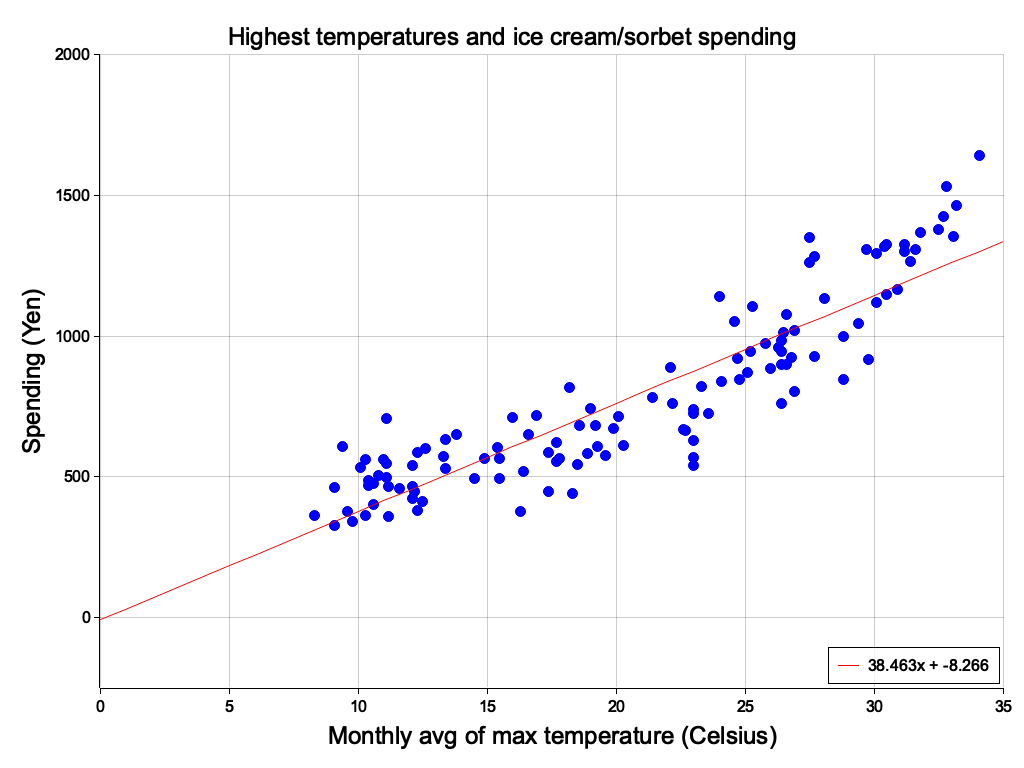
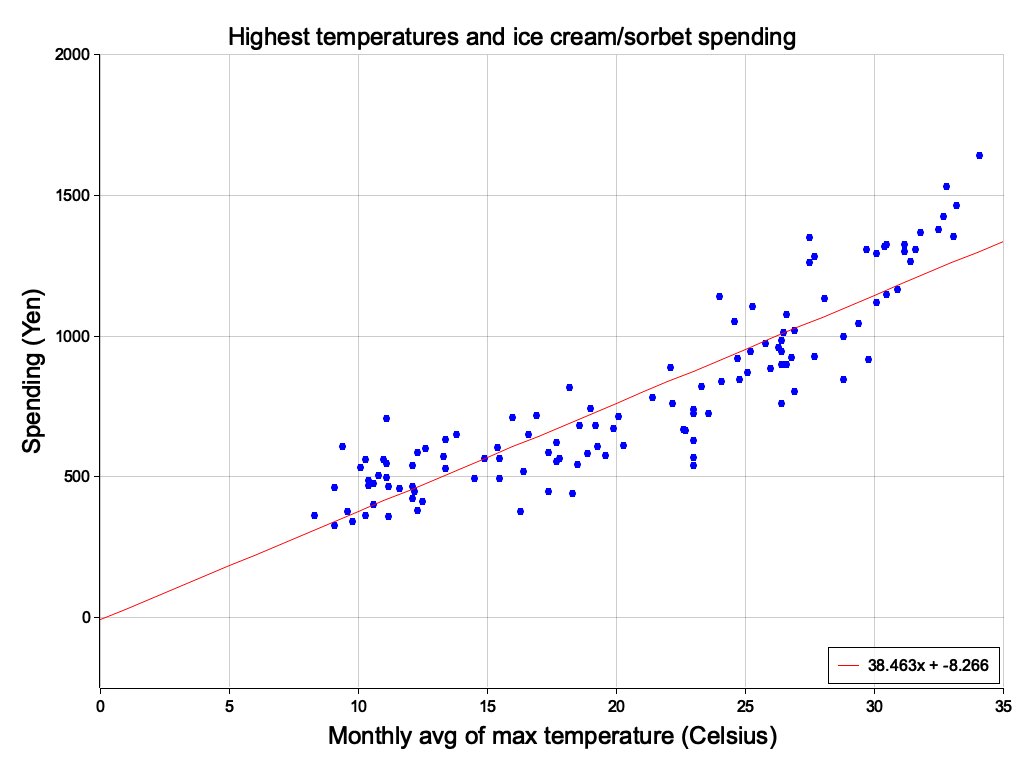
tweak

diff --git a/src/bin/plot_test.rs b/src/bin/plot_test.rs
@@ -1,44 +1,45 @@
 use anyhow::Result;
 use plotters::prelude::*;
-use std::path::Path;
+use std::path::{Path, PathBuf};
 
 const OUTDIR: &str = "plotters-images";
 
-fn main() -> Result<()> {
+pub fn get_output_path() -> PathBuf {
     let arg = std::env::args().next().unwrap();
-    let plot_image_filename =
-        Path::new(&arg).file_name().unwrap().to_string_lossy();
-    let path = format!("{}/{}.png", OUTDIR, plot_image_filename);
-    plot(&path)?;
+    let fname = Path::new(&arg).file_name().unwrap().to_string_lossy();
+    let plot_image_filename = format!("{}.png", fname);
+    PathBuf::from(OUTDIR).join(plot_image_filename)
+}
+
+fn main() -> Result<()> {
+    let path = get_output_path();
+    run(&path)?;
     Ok(())
 }
 
-fn plot(filename: &str) -> Result<()> {
+fn run<P: AsRef<Path>>(path: P) -> Result<()> {
     let icecream_data = std::iter::zip(X, Y)
         .map(|(x, y)| (*x, *y))
         .collect::<Vec<_>>();
 
-    let x_range = 0f32..35f32;
-    let y_range = -250f32..2000f32;
-    let caption = "Highest temperatures and ice cream/sorbet spending";
-    let x_desc = "Monthly avg of max temperature (Celsius)";
-    let y_desc = "Spending (Yen)";
-
     let root =
-        BitMapBackend::new(filename, (1024, 768)).into_drawing_area();
+        BitMapBackend::new(&path, (1024, 768)).into_drawing_area();
     root.fill(&WHITE)?;
     let root = root.margin(20, 20, 20, 20);
 
     let mut chart = ChartBuilder::on(&root)
-        .caption(caption, ("sans-serif", 30).into_font())
+        .caption(
+            "Highest temperatures and ice cream/sorbet spending",
+            ("sans-serif", 30).into_font(),
+        )
         .x_label_area_size(60)
         .y_label_area_size(80)
-        .build_cartesian_2d(x_range, y_range)?;
+        .build_cartesian_2d(0f32..35f32, -250f32..2000f32)?;
 
     chart
         .configure_mesh()
-        .x_desc(x_desc)
-        .y_desc(y_desc)
+        .x_desc("Monthly avg of max temperature (Celsius)")
+        .y_desc("Spending (Yen)")
         .axis_desc_style(("sans-serif", 30).into_font())
         .max_light_lines(0)
         .x_labels(10)
@@ -59,29 +60,30 @@ fn plot(filename: &str) -> Result<()> {
 }
 
 const X: &[f32] = &[
-    9.1, 11.2, 12.3, 18.9, 22.2, 26., 30.9, 31.2, 28.8, 23., 18.3, 11.1,
-    8.3, 9.1, 12.5, 18.5, 23.6, 24.8, 30.1, 33.1, 29.8, 23., 16.3, 11.2,
-    9.6, 10.3, 16.4, 19.2, 24.1, 26.5, 31.4, 33.2, 28.8, 23., 17.4, 12.1,
-    10.6, 9.8, 14.5, 19.6, 24.7, 26.9, 30.5, 31.2, 26.9, 23., 17.4, 11.,
-    10.4, 10.4, 15.5, 19.3, 26.4, 26.4, 30.1, 30.5, 26.4, 22.7, 17.8,
-    13.4, 10.6, 12.2, 14.9, 20.3, 25.2, 26.3, 29.7, 31.6, 27.7, 22.6,
-    15.5, 13.8, 10.8, 12.1, 13.4, 19.9, 25.1, 26.4, 31.8, 30.4, 26.8,
-    20.1, 16.6, 11.1, 9.4, 10.1, 16.9, 22.1, 24.6, 26.6, 32.7, 32.5,
-    26.6, 23., 17.7, 12.1, 10.3, 11.6, 15.4, 19., 25.3, 25.8, 27.5, 32.8,
-    29.4, 23.3, 17.7, 12.6, 11.1, 13.3, 16., 18.2, 24., 27.5, 27.7, 34.1,
-    28.1, 21.4, 18.6, 12.3,
+    9.1, 11.2, 12.3, 18.9, 22.2, 26., 30.9, 31.2, 28.8, 23., 18.3,
+    11.1, 8.3, 9.1, 12.5, 18.5, 23.6, 24.8, 30.1, 33.1, 29.8, 23.,
+    16.3, 11.2, 9.6, 10.3, 16.4, 19.2, 24.1, 26.5, 31.4, 33.2, 28.8,
+    23., 17.4, 12.1, 10.6, 9.8, 14.5, 19.6, 24.7, 26.9, 30.5, 31.2,
+    26.9, 23., 17.4, 11., 10.4, 10.4, 15.5, 19.3, 26.4, 26.4, 30.1,
+    30.5, 26.4, 22.7, 17.8, 13.4, 10.6, 12.2, 14.9, 20.3, 25.2, 26.3,
+    29.7, 31.6, 27.7, 22.6, 15.5, 13.8, 10.8, 12.1, 13.4, 19.9, 25.1,
+    26.4, 31.8, 30.4, 26.8, 20.1, 16.6, 11.1, 9.4, 10.1, 16.9, 22.1,
+    24.6, 26.6, 32.7, 32.5, 26.6, 23., 17.7, 12.1, 10.3, 11.6, 15.4,
+    19., 25.3, 25.8, 27.5, 32.8, 29.4, 23.3, 17.7, 12.6, 11.1, 13.3,
+    16., 18.2, 24., 27.5, 27.7, 34.1, 28.1, 21.4, 18.6, 12.3,
 ];
 
 const Y: &[f32] = &[
     463., 360., 380., 584., 763., 886., 1168., 1325., 847., 542., 441.,
     499., 363., 327., 414., 545., 726., 847., 1122., 1355., 916., 571.,
-    377., 465., 377., 362., 518., 683., 838., 1012., 1267., 1464., 1000.,
-    629., 448., 466., 404., 343., 493., 575., 921., 1019., 1149., 1303.,
-    805., 739., 587., 561., 486., 470., 564., 609., 899., 946., 1295.,
-    1325., 760., 667., 564., 633., 478., 450., 567., 611., 947., 962.,
-    1309., 1307., 930., 668., 496., 650., 506., 423., 531., 672., 871.,
-    986., 1368., 1319., 924., 716., 651., 708., 609., 535., 717., 890.,
-    1054., 1077., 1425., 1378., 900., 725., 554., 542., 561., 459., 604.,
-    745., 1105., 973., 1263., 1533., 1044., 821., 621., 601., 549., 572.,
-    711., 819., 1141., 1350., 1285., 1643., 1133., 784., 682., 587.,
+    377., 465., 377., 362., 518., 683., 838., 1012., 1267., 1464.,
+    1000., 629., 448., 466., 404., 343., 493., 575., 921., 1019.,
+    1149., 1303., 805., 739., 587., 561., 486., 470., 564., 609., 899.,
+    946., 1295., 1325., 760., 667., 564., 633., 478., 450., 567., 611.,
+    947., 962., 1309., 1307., 930., 668., 496., 650., 506., 423., 531.,
+    672., 871., 986., 1368., 1319., 924., 716., 651., 708., 609., 535.,
+    717., 890., 1054., 1077., 1425., 1378., 900., 725., 554., 542.,
+    561., 459., 604., 745., 1105., 973., 1263., 1533., 1044., 821.,
+    621., 601., 549., 572., 711., 819., 1141., 1350., 1285., 1643.,
+    1133., 784., 682., 587.,
 ];

diff --git a/src/regression.rs b/src/regression.rs
@@ -40,7 +40,11 @@ pub struct Polynomial {
 }
 
 impl Polynomial {
-    pub fn polyfit(x: &[f32], y: &[f32], degree: usize) -> Result<Self> {
+    pub fn polyfit(
+        x: &[f32],
+        y: &[f32],
+        degree: usize,
+    ) -> Result<Self> {
         let x = DenseMatrix::from_2d_vec(
             &x.iter()
                 .map(|&x| set_degree(x, degree))
@@ -140,7 +144,8 @@ pub fn plot<P: AsRef<std::path::Path>>(
     series: Vec<(f32, f32)>,
     legend: &str,
 ) -> Result<()> {
-    let root = BitMapBackend::new(&path, (1024, 768)).into_drawing_area();
+    let root =
+        BitMapBackend::new(&path, (1024, 768)).into_drawing_area();
     root.fill(&WHITE)?;
     let root = root.margin(20, 20, 20, 20);
 
@@ -213,15 +218,16 @@ pub mod dataset {
     pub const TEMPERATURES: &[f32] = &[
         9.1, 11.2, 12.3, 18.9, 22.2, 26., 30.9, 31.2, 28.8, 23., 18.3,
         11.1, 8.3, 9.1, 12.5, 18.5, 23.6, 24.8, 30.1, 33.1, 29.8, 23.,
-        16.3, 11.2, 9.6, 10.3, 16.4, 19.2, 24.1, 26.5, 31.4, 33.2, 28.8,
-        23., 17.4, 12.1, 10.6, 9.8, 14.5, 19.6, 24.7, 26.9, 30.5, 31.2,
-        26.9, 23., 17.4, 11., 10.4, 10.4, 15.5, 19.3, 26.4, 26.4, 30.1,
-        30.5, 26.4, 22.7, 17.8, 13.4, 10.6, 12.2, 14.9, 20.3, 25.2, 26.3,
-        29.7, 31.6, 27.7, 22.6, 15.5, 13.8, 10.8, 12.1, 13.4, 19.9, 25.1,
-        26.4, 31.8, 30.4, 26.8, 20.1, 16.6, 11.1, 9.4, 10.1, 16.9, 22.1,
-        24.6, 26.6, 32.7, 32.5, 26.6, 23., 17.7, 12.1, 10.3, 11.6, 15.4,
-        19., 25.3, 25.8, 27.5, 32.8, 29.4, 23.3, 17.7, 12.6, 11.1, 13.3,
-        16., 18.2, 24., 27.5, 27.7, 34.1, 28.1, 21.4, 18.6, 12.3,
+        16.3, 11.2, 9.6, 10.3, 16.4, 19.2, 24.1, 26.5, 31.4, 33.2,
+        28.8, 23., 17.4, 12.1, 10.6, 9.8, 14.5, 19.6, 24.7, 26.9, 30.5,
+        31.2, 26.9, 23., 17.4, 11., 10.4, 10.4, 15.5, 19.3, 26.4, 26.4,
+        30.1, 30.5, 26.4, 22.7, 17.8, 13.4, 10.6, 12.2, 14.9, 20.3,
+        25.2, 26.3, 29.7, 31.6, 27.7, 22.6, 15.5, 13.8, 10.8, 12.1,
+        13.4, 19.9, 25.1, 26.4, 31.8, 30.4, 26.8, 20.1, 16.6, 11.1,
+        9.4, 10.1, 16.9, 22.1, 24.6, 26.6, 32.7, 32.5, 26.6, 23., 17.7,
+        12.1, 10.3, 11.6, 15.4, 19., 25.3, 25.8, 27.5, 32.8, 29.4,
+        23.3, 17.7, 12.6, 11.1, 13.3, 16., 18.2, 24., 27.5, 27.7, 34.1,
+        28.1, 21.4, 18.6, 12.3,
     ];
 
     pub const SPENDINGS: &[f32] = &[
@@ -236,6 +242,7 @@ pub mod dataset {
         924., 716., 651., 708., 609., 535., 717., 890., 1054., 1077.,
         1425., 1378., 900., 725., 554., 542., 561., 459., 604., 745.,
         1105., 973., 1263., 1533., 1044., 821., 621., 601., 549., 572.,
-        711., 819., 1141., 1350., 1285., 1643., 1133., 784., 682., 587.,
+        711., 819., 1141., 1350., 1285., 1643., 1133., 784., 682.,
+        587.,
     ];
 }

diff --git a/src/bin/reg_simple.rs b/src/bin/reg_simple.rs
@@ -21,23 +21,3 @@ fn run<P: AsRef<Path>>(path: P) -> Result<()> {
 
     Ok(())
 }
-
-fn slope_and_intercept(data: &[(f32, f32)]) -> (f32, f32) {
-    let len = data.len() as f32;
-    let x_avg = data.iter().map(|d| d.0).sum::<f32>() / len;
-    let y_avg = data.iter().map(|d| d.1).sum::<f32>() / len;
-
-    let cov_xy = data
-        .iter()
-        .map(|&(x, y)| (x - x_avg) * (y - y_avg))
-        .sum::<f32>()
-        / len;
-    let var_x = data
-        .iter()
-        .map(|&(x, _)| (x - x_avg) * (x - x_avg))
-        .sum::<f32>()
-        / len;
-
-    let a = cov_xy / var_x;
-    (a, y_avg - a * x_avg)
-}
